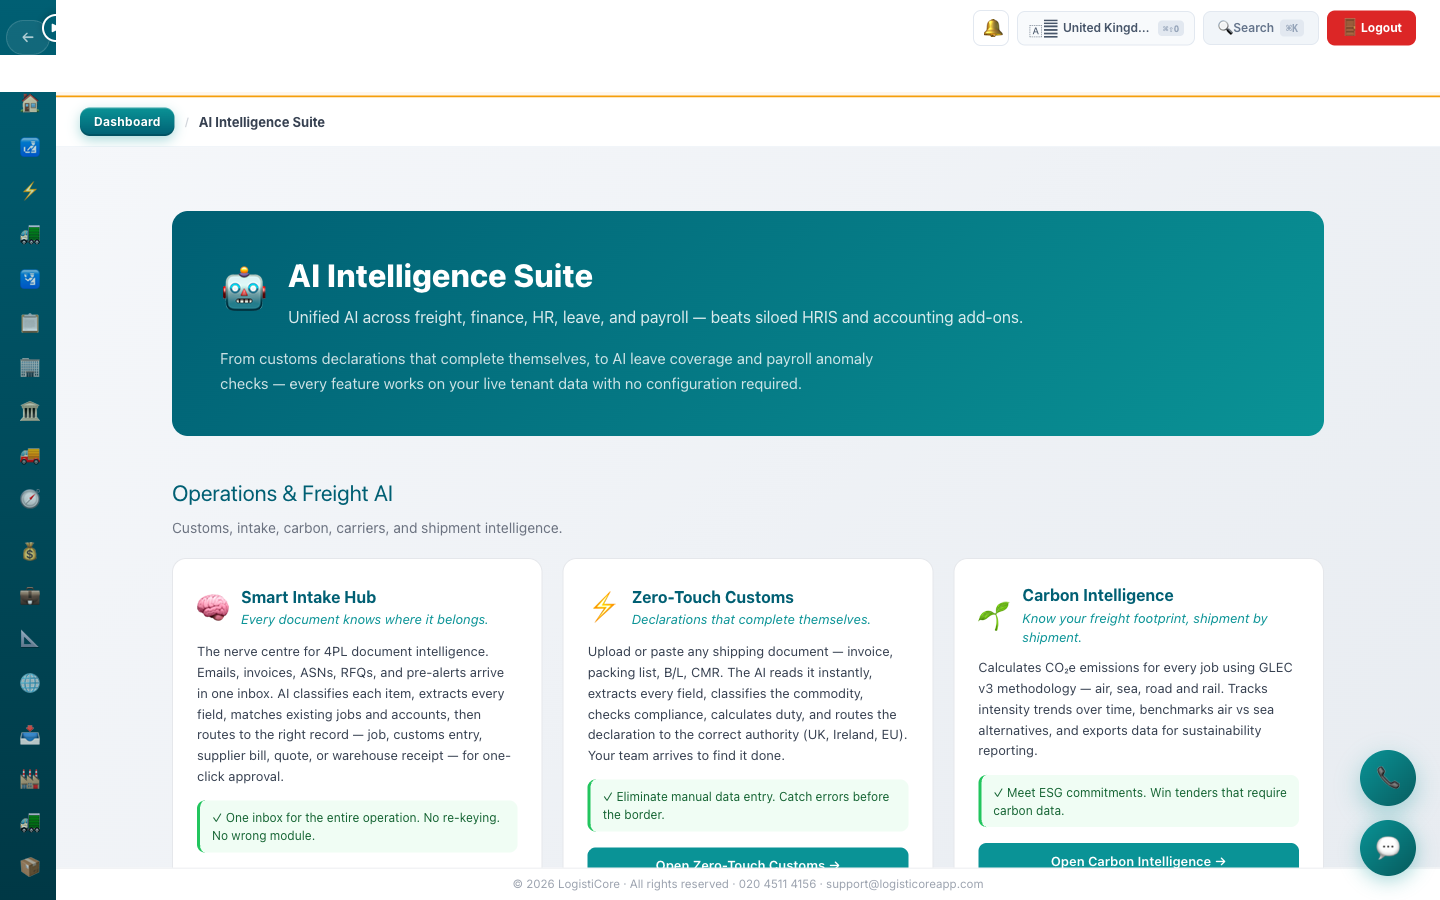
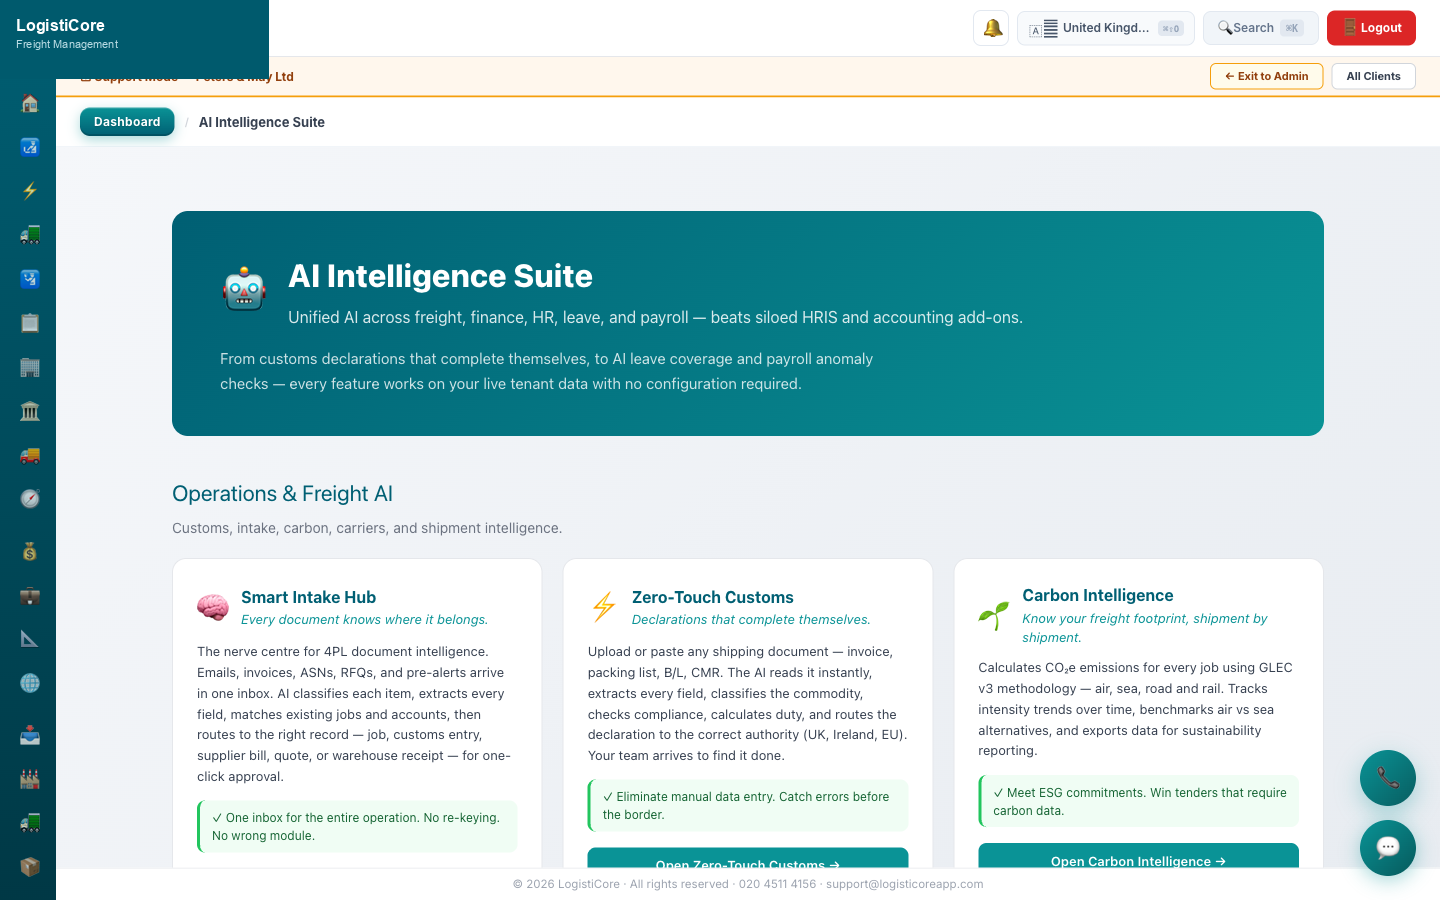
Use real product screens on the tour and fix term/discount pricing copy.
Drop mocked module shots buyers would not recognise, scrub live captures without blotchy overlays, and clarify monthly default vs longer lock-in for a bigger discount.

Changed region(s): [[0.0, 0.0, 0.2188, 0.1244], [0.8438, 0.0622, 0.9688, 0.0933]]

diff --git a/product-tour.html b/product-tour.html
@@ -14,7 +14,7 @@
     <link rel="apple-touch-icon" sizes="180x180" href="assets/img/apple-touch-icon.png?v=3">
     <link rel="manifest" href="assets/manifest.json?v=3">
     <link rel="preload" as="image" href="assets/img/logisticore-technologies-logo.png">
-    <link rel="stylesheet" href="styles.css?v=27">
+    <link rel="stylesheet" href="styles.css?v=28">
     <style>
         .tour-hero {
             background: linear-gradient(135deg, #071319 0%, #0A1628 55%, #071319 100%);
@@ -253,7 +253,7 @@
     <section class="tour-hero">
         <div class="eyebrow">Product tour</div>
         <h1>LogistiCore <span>in the wild</span></h1>
-        <p class="lede">Jobs, customs, finance, warehouse, drivers, client portal and mobile — the modules buyers ask for before they book a demo.</p>
+        <p class="lede">Real screens from the live product — jobs, Zero-Touch, CDS, sanctions, dashboard and AI. Finance, portal, warehouse, drivers and mobile are best seen on a short demo.</p>
         <div class="cta-row">
             <a href="contact.html?enquiry=saas&amp;intent=demo" class="btn btn-primary">Book a 20-minute demo</a>
             <a href="logisticore-saas.html#features" class="btn btn-secondary">See all 200+ features</a>
@@ -324,86 +324,6 @@
         </div>
     </section>
 
-    <section class="tour-scene" id="finance">
-        <div class="browser-frame">
-            <div class="browser-chrome">
-                <span></span><span></span><span></span>
-                <div class="browser-url">app.logisticoreapp.com/app/ops/finance</div>
-            </div>
-            <img src="assets/img/product/finance.png" alt="Finance command centre with invoices, bills and VAT return figures" width="1440" height="900" loading="lazy">
-        </div>
-        <div class="scene-copy">
-            <div class="scene-label">Finance</div>
-            <h2>A full finance package — not a bolt-on</h2>
-            <p>Sales invoices, supplier bills, VAT returns and bank reconciliation live in the same tenant as the jobs. UK MTD-ready figures without a second accounting silo.</p>
-            <span class="scene-benefit">Cash, VAT and jobs in one ledger story</span>
-        </div>
-    </section>
-
-    <section class="tour-scene" id="portal">
-        <div class="browser-frame">
-            <div class="browser-chrome">
-                <span></span><span></span><span></span>
-                <div class="browser-url">app.logisticoreapp.com/portal</div>
-            </div>
-            <img src="assets/img/product/client-portal.png" alt="White-label client portal showing customer shipments and invoices" width="1440" height="900" loading="lazy">
-        </div>
-        <div class="scene-copy">
-            <div class="scene-label">Client portal</div>
-            <h2>Give your customers their own window</h2>
-            <p>White-label portal for tracking, documents, invoices and warehouse holds — so your desk stops answering “where is my cargo?” all day.</p>
-            <span class="scene-benefit">Self-serve customers, quieter phones</span>
-        </div>
-    </section>
-
-    <section class="tour-scene" id="warehouse">
-        <div class="browser-frame">
-            <div class="browser-chrome">
-                <span></span><span></span><span></span>
-                <div class="browser-url">app.logisticoreapp.com/app/ops/warehouse</div>
-            </div>
-            <img src="assets/img/product/warehouse.png" alt="Warehouse on-hand stock board linked to freight jobs" width="1440" height="900" loading="lazy">
-        </div>
-        <div class="scene-copy">
-            <div class="scene-label">Warehouse</div>
-            <h2>Bonded and free stock on the same job file</h2>
-            <p>Inbound, on-hand, bonded lots and picks share job numbers with ops and customs — no parallel spreadsheet for the shed.</p>
-            <span class="scene-benefit">Floor to declaration without re-keying</span>
-        </div>
-    </section>
-
-    <section class="tour-scene" id="drivers">
-        <div class="browser-frame">
-            <div class="browser-chrome">
-                <span></span><span></span><span></span>
-                <div class="browser-url">app.logisticoreapp.com/app/ops/drivers</div>
-            </div>
-            <img src="assets/img/product/drivers-dispatch.png" alt="Driver dispatch board with runs, vehicles and POD status" width="1440" height="900" loading="lazy">
-        </div>
-        <div class="scene-copy">
-            <div class="scene-label">Drivers</div>
-            <h2>Dispatch, POD and exceptions on the job</h2>
-            <p>Collections and deliveries assigned to drivers with status and proof of delivery flowing straight back into the shipment record.</p>
-            <span class="scene-benefit">Road moves your ops team can see live</span>
-        </div>
-    </section>
-
-    <section class="tour-scene" id="mobile">
-        <div class="browser-frame">
-            <div class="browser-chrome">
-                <span></span><span></span><span></span>
-                <div class="browser-url">LogistiCore mobile · driver &amp; warehouse</div>
-            </div>
-            <img src="assets/img/product/mobile-app.png" alt="LogistiCore mobile app for driver runs, POD capture and warehouse scanning" width="1440" height="900" loading="lazy">
-        </div>
-        <div class="scene-copy">
-            <div class="scene-label">Mobile app</div>
-            <h2>The floor runs through the same job file</h2>
-            <p>Driver collections, POD capture and warehouse scanning sit at the centre of the operation — updates hit ops and the client portal live.</p>
-            <span class="scene-benefit">Road and warehouse, one mobile app</span>
-        </div>
-    </section>
-
     <section class="tour-scene" id="dashboard">
         <div class="browser-frame">
             <div class="browser-chrome">
@@ -438,7 +358,7 @@
 
     <section class="tour-cta">
         <h2>Want a walkthrough on your lanes?</h2>
-        <p>Book a short demo — we’ll show finance, portal, warehouse, drivers and customs on your kind of freight.</p>
+        <p>Book a short demo — we’ll walk finance, portal, warehouse, drivers and mobile on your kind of freight, in the live product.</p>
         <div class="cta-row">
             <a href="contact.html?enquiry=saas&amp;intent=demo" class="btn btn-primary">Book a 20-minute demo</a>
             <a href="pricing.html" class="btn btn-secondary">See pricing</a>

diff --git a/logisticore-saas.html b/logisticore-saas.html
@@ -17,7 +17,7 @@
     <link rel="mask-icon" href="assets/img/safari-pinned-tab.svg?v=3" color="#0ea5e9">
 
     <link rel="preload" as="image" href="assets/img/logisticore-technologies-logo.png">
-    <link rel="stylesheet" href="styles.css?v=27">
+    <link rel="stylesheet" href="styles.css?v=28">
     <style>
         /* ============= SAAS SHOWCASE STYLES ============= */
         .saas-hero {
@@ -689,7 +689,7 @@
         <div class="module-header">
             <div class="module-label">Product screens</div>
             <h2 id="inside-platform-title">Inside the <span class="teal">platform</span></h2>
-            <p class="module-desc">Tenant screens from the live product — open any card for the full tour.</p>
+            <p class="module-desc">Screens captured from the live product — open any card for the full tour. Finance, portal, warehouse, drivers and mobile are shown on demo.</p>
         </div>
         <div class="inside-grid">
             <a class="inside-card" href="product-tour.html#jobs">
@@ -700,44 +700,44 @@
                     <p>Every shipment mode on one ops desk.</p>
                 </div>
             </a>
-            <a class="inside-card" href="product-tour.html#finance">
-                <img src="assets/img/product/finance.png" alt="Finance package with invoices and VAT" width="720" height="450" loading="lazy">
+            <a class="inside-card" href="product-tour.html#zero-touch">
+                <img src="assets/img/product/zero-touch.png" alt="Zero-Touch Customs intake" width="720" height="450" loading="lazy">
                 <div class="copy">
-                    <div class="tag">Finance</div>
-                    <h3>Finance package</h3>
-                    <p>Invoices, bills, VAT and bank rec with the jobs.</p>
+                    <div class="tag">Automation</div>
+                    <h3>Zero-Touch Customs</h3>
+                    <p>Invoice PDF into the declaration pipeline.</p>
                 </div>
             </a>
-            <a class="inside-card" href="product-tour.html#portal">
-                <img src="assets/img/product/client-portal.png" alt="Online client portal" width="720" height="450" loading="lazy">
+            <a class="inside-card" href="product-tour.html#customs">
+                <img src="assets/img/product/customs-entries.png" alt="Customs entries with HMRC CDS" width="720" height="450" loading="lazy">
                 <div class="copy">
-                    <div class="tag">Portal</div>
-                    <h3>Client portal</h3>
-                    <p>White-label tracking, docs and invoices for customers.</p>
+                    <div class="tag">Customs</div>
+                    <h3>HMRC CDS entries</h3>
+                    <p>Declarations inside the freight job.</p>
                 </div>
             </a>
-            <a class="inside-card" href="product-tour.html#warehouse">
-                <img src="assets/img/product/warehouse.png" alt="Warehouse on-hand board" width="720" height="450" loading="lazy">
+            <a class="inside-card" href="product-tour.html#sanctions">
+                <img src="assets/img/product/sanctions-screen.png" alt="Global sanctions screening" width="720" height="450" loading="lazy">
                 <div class="copy">
-                    <div class="tag">Warehouse</div>
-                    <h3>Warehouse</h3>
-                    <p>Bonded and free stock tied to the job file.</p>
+                    <div class="tag">Compliance</div>
+                    <h3>Sanctions screening</h3>
+                    <p>OFAC, UK, EU and UN on the job parties.</p>
                 </div>
             </a>
-            <a class="inside-card" href="product-tour.html#drivers">
-                <img src="assets/img/product/drivers-dispatch.png" alt="Driver dispatch board" width="720" height="450" loading="lazy">
+            <a class="inside-card" href="product-tour.html#dashboard">
+                <img src="assets/img/product/client-dashboard.png" alt="Client operations dashboard" width="720" height="450" loading="lazy">
                 <div class="copy">
-                    <div class="tag">Drivers</div>
-                    <h3>Drivers &amp; POD</h3>
-                    <p>Dispatch runs with proof of delivery on the job.</p>
+                    <div class="tag">Visibility</div>
+                    <h3>Client dashboard</h3>
+                    <p>Ops KPIs without hopping tools.</p>
                 </div>
             </a>
-            <a class="inside-card" href="product-tour.html#mobile">
-                <img src="assets/img/product/mobile-app.png" alt="LogistiCore mobile app" width="720" height="450" loading="lazy">
+            <a class="inside-card" href="product-tour.html#ai">
+                <img src="assets/img/product/ai-hub.png" alt="AI intelligence hub" width="720" height="450" loading="lazy">
                 <div class="copy">
-                    <div class="tag">Mobile</div>
-                    <h3>Mobile app</h3>
-                    <p>Driver and warehouse tools in the pocket.</p>
+                    <div class="tag">Intelligence</div>
+                    <h3>AI hub</h3>
+                    <p>Assistants where the work happens.</p>
                 </div>
             </a>
         </div>

diff --git a/pricing.html b/pricing.html
@@ -3,7 +3,7 @@
 <head>
     <meta charset="UTF-8">
     <meta name="viewport" content="width=device-width, initial-scale=1.0">
-    <meta name="description" content="Transparent LogistiCore SaaS pricing from £349/month. No module nickel-and-diming, continuous product development included, no long lock-in. Clear guide prices for freight software, IT support and websites.">
+    <meta name="description" content="Transparent LogistiCore SaaS pricing from £349/month. No module nickel-and-diming, continuous product development included. Monthly by default, or longer terms for a bigger discount. Clear guide prices for freight software, IT support and websites.">
     <meta name="keywords" content="logistics software pricing, SaaS pricing, IT support costs, managed services pricing, freight forwarding software cost, website design pricing">
     <title>Pricing Plans | LogistiCore SaaS, IT Support & Web Design</title>
     <meta name="robots" content="index, follow">
@@ -17,7 +17,7 @@
     <link rel="mask-icon" href="assets/img/safari-pinned-tab.svg?v=3" color="#0ea5e9">
     
     <link rel="preload" as="image" href="assets/img/logisticore-technologies-logo.png">
-    <link rel="stylesheet" href="styles.css?v=27">
+    <link rel="stylesheet" href="styles.css?v=28">
     <script type="application/ld+json">
     {
       "@context": "https://schema.org",
@@ -187,8 +187,8 @@
                     <p>Replace the patchwork of TMS + customs tool + WMS + accounts licences with a single monthly subscription sized for your desk.</p>
                 </div>
                 <div class="feature-box">
-                    <h3>No long lock-in</h3>
-                    <p>Monthly billing with 30 days’ notice. We earn the renewal by shipping value — not by trapping you in a multi-year contract.</p>
+                    <h3>Flexible term, clearer discount</h3>
+                    <p>Monthly by default. Prefer a bigger discount? Choose a longer commitment — the same model you’d expect from any serious system.</p>
                 </div>
             </div>
         </div>
@@ -260,7 +260,7 @@
                 <h3>Unlike typical freight software pricing</h3>
                 <ul style="margin: 0.75rem 0 0 1.1rem;">
                     <li>No per-shipment “transaction tax” on your own jobs</li>
-                    <li>No forced multi-year contract to get a usable rate</li>
+                    <li>Monthly by default — longer term only when you want a bigger discount</li>
                     <li>No paying again every time we ship a major feature into your plan</li>
                     <li>Transparent guide prices published here — not “call for pricing” for the basics</li>
                 </ul>
@@ -485,8 +485,8 @@
             <li><strong>All Services:</strong> We accept bank transfer, BACS, and major business credit/debit cards.</li>
         </ul>
 
-        <h2>No Lock-In Contracts</h2>
-        <p>We believe in earning your business every month. LogistiCore SaaS and IT support services are billed monthly with no long-term contracts. You can cancel anytime with 30 days' notice — while we keep shipping product improvements into your plan at no extra charge.</p>
+        <h2>Contract terms</h2>
+        <p>LogistiCore SaaS is monthly by default with 30 days’ notice. If you want a bigger discount, we can agree a longer lock-in — standard commercial practice. Either way, continuous product development stays in your subscription at no extra charge.</p>
 
         <h2>Get a Custom Quote</h2>
         <p>Every freight desk is different. Tell us your modes, customs volume and headcount — we’ll map the right plan without a surprise module shopping list.</p>

diff --git a/freight-software-compared.html b/freight-software-compared.html
@@ -13,7 +13,7 @@
     <meta property="og:url" content="https://logisticoreapp.com/freight-software-compared.html">
     <meta property="og:image" content="https://logisticoreapp.com/assets/img/logisticore-technologies-logo.png">
     <link rel="icon" type="image/x-icon" href="assets/favicon.ico?v=3">
-    <link rel="stylesheet" href="styles.css?v=27">
+    <link rel="stylesheet" href="styles.css?v=28">
     <script type="application/ld+json">
     {
       "@context": "https://schema.org",
@@ -88,7 +88,7 @@
                     <tr><td>Billing from the job</td><td>Re-keyed</td><td>Sometimes</td><td>No</td><td>Yes</td></tr>
                     <tr><td>UK HMRC CDS in the job</td><td>No</td><td>Rare</td><td>Yes, separate desk</td><td>Yes, inside the job</td></tr>
                     <tr><td>Customs in the job</td><td>No</td><td>Rare</td><td>Separate desk</td><td>Yes. UK HMRC CDS is live, and worldwide customs is on the product plan.</td></tr>
-                    <tr><td>Pricing model</td><td>Hidden labour cost</td><td>Often modules &amp; lock-in</td><td>Separate licence + ops tools</td><td>Transparent guide prices; continuous development included — no nickel-and-diming</td></tr>
+                    <tr><td>Pricing model</td><td>Hidden labour cost</td><td>Often modules &amp; surprise fees</td><td>Separate licence + ops tools</td><td>Transparent guide prices; continuous development included; longer term only for a bigger discount</td></tr>
                 </tbody>
             </table>
             <p>Guide prices in GBP for 3 users: Starter from £349/month, Professional from £549/month, Enterprise from £799/month. Extra users from £125–£175. Setup from £500. Continuous product development ships into your plan at no extra charge. Sales: sales@logisticoreapp.com, +44 20 4511 4156.</p>

diff --git a/index.html b/index.html
@@ -220,7 +220,7 @@
     <link rel="mask-icon" href="assets/img/safari-pinned-tab.svg?v=3" color="#0ea5e9">
     
     <link rel="preload" as="image" href="assets/img/logisticore-technologies-logo.png">
-    <link rel="stylesheet" href="styles.css?v=27">
+    <link rel="stylesheet" href="styles.css?v=28">
 </head>
 <body>
     <!-- Header & Navigation -->
